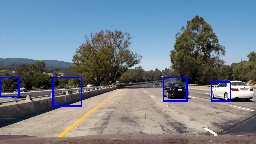
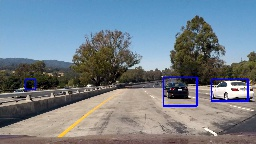
Trained on BGR images

diff --git a/train.py b/train.py
@@ -61,7 +61,7 @@ def get_hog_features(img, orient, pix_per_cell, cell_per_block,
 
 # Define a function to extract features from a list of images
 # Have this function call bin_spatial() and color_hist()
-def extract_features(imgs, color_space='RGB', spatial_size=(32, 32),
+def extract_features(imgs, color_space='BGR', spatial_size=(32, 32),
                         hist_bins=32, orient=9, 
                         pix_per_cell=8, cell_per_block=2,
                         spatial_feat=True, hist_feat=True, hog_feat=True):
